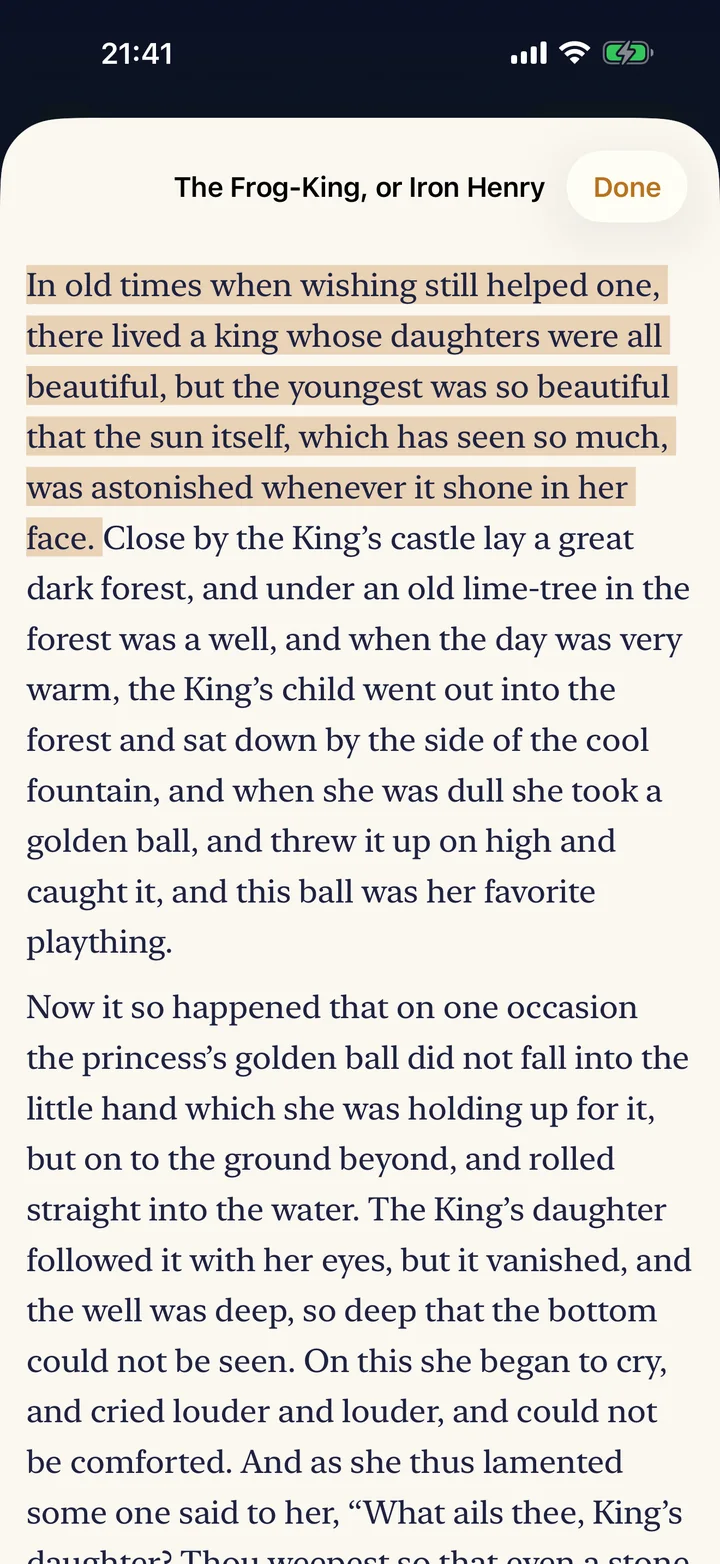
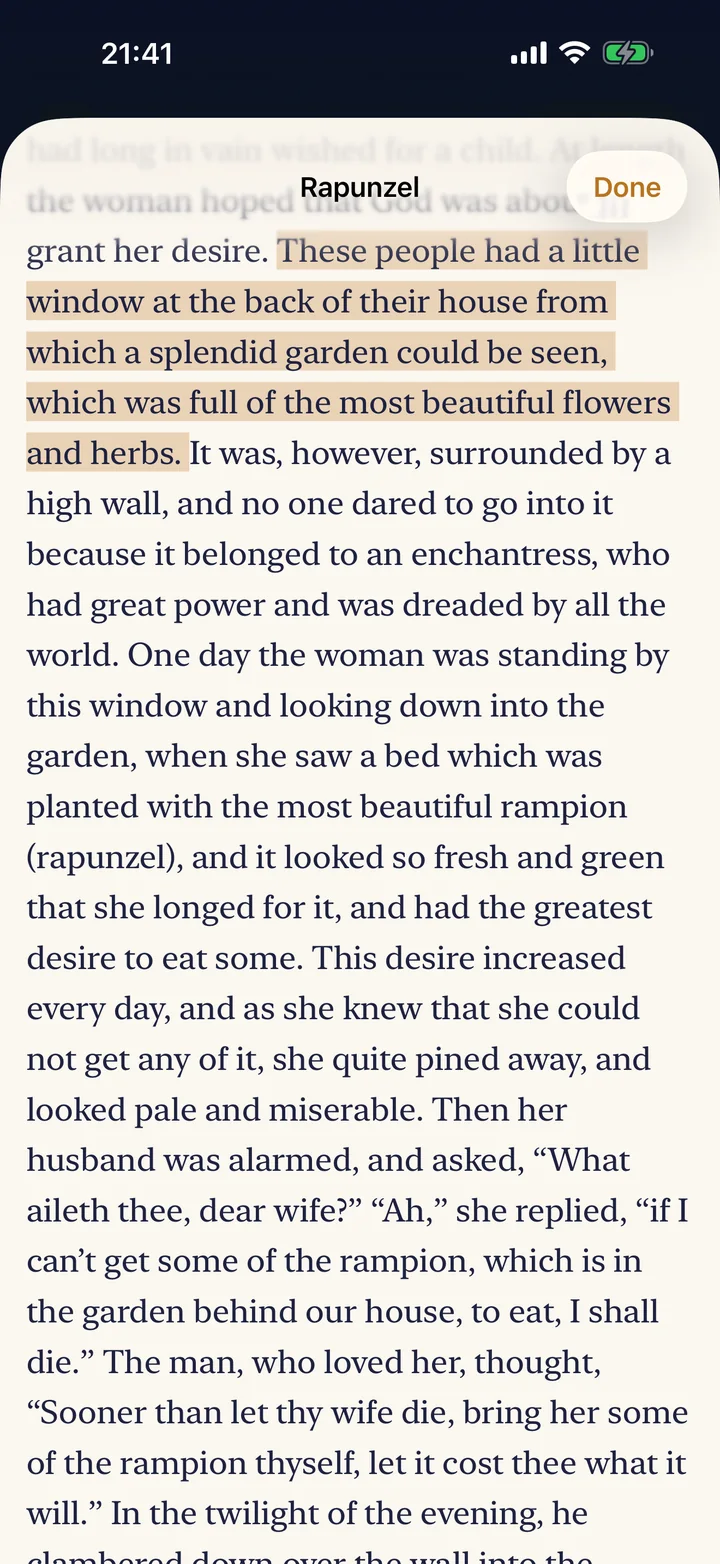
FairyWhisper page: Rapunzel on the story screen, player, read-along and the live demo

Changed region(s): [[0.0306, 0.0921, 0.9778, 1.0]]

diff --git a/fairywhisper/index.html b/fairywhisper/index.html
@@ -443,16 +443,16 @@
         <span lang="en">This page reads the way the app's free device voice does. Press play and watch the sentence being read light up.</span>
       </p>
       <div class="tales" role="group" aria-label="Masal seç" data-aria-en="Choose a story">
-        <button class="tale" type="button" lang="tr" data-tale="0" aria-pressed="true">Keloğlan ile Yün Bulutları</button>
+        <button class="tale" type="button" lang="tr" data-tale="0" aria-pressed="true">Rapunzel</button>
         <button class="tale" type="button" lang="tr" data-tale="1" aria-pressed="false">Bulut Yastık</button>
-        <button class="tale" type="button" lang="tr" data-tale="2" aria-pressed="false">Nasreddin Hoca ile Kuyudaki Ay</button>
+        <button class="tale" type="button" lang="tr" data-tale="2" aria-pressed="false">Keloğlan ile Yün Bulutları</button>
         <button class="tale" type="button" lang="en" data-tale="0" aria-pressed="true">The Tale of Peter Rabbit</button>
         <button class="tale" type="button" lang="en" data-tale="1" aria-pressed="false">How the Camel Got His Hump</button>
         <button class="tale" type="button" lang="en" data-tale="2" aria-pressed="false">Little Red-Cap</button>
       </div>
       <div class="read-sheet" data-ui>
-        <p class="title" id="read-title">Keloğlan ile Yün Bulutları</p>
-        <p class="read-text" id="read-text">Evvel zaman içinde, kalbur saman içinde, yüksek dağların eteğinde küçük bir köy varmış. Köyün evleri taştan, damları topraktanmış. Her evin önünde bir dut ağacı, her bahçede bir sıra fasulye varmış. Köyün tam ortasında da koca bir çınar dururmuş.</p>
+        <p class="title" id="read-title">Rapunzel</p>
+        <p class="read-text" id="read-text">Evvel zaman içinde, kalbur saman içinde, sık bir ormanın ortasında, gökyüzüne doğru uzanan taştan bir kule varmış. Kulenin ne kapısı, ne merdiveni varmış. Yalnızca en tepesinde, küçük bir penceresi varmış.</p>
         <div class="controls">
           <button class="play" type="button" id="play">
             <svg viewBox="0 0 14 14" aria-hidden="true"><path d="M2 1.2v11.6L12.4 7z"/></svg>
@@ -715,9 +715,9 @@
   // Real openings from the app's library.
   var TALES = {
     tr: [
-      { t: 'Keloğlan ile Yün Bulutları', s: ['Evvel zaman içinde, kalbur saman içinde, yüksek dağların eteğinde küçük bir köy varmış.', 'Köyün evleri taştan, damları topraktanmış.', 'Her evin önünde bir dut ağacı, her bahçede bir sıra fasulye varmış.', 'Köyün tam ortasında da koca bir çınar dururmuş.'] },
+      { t: 'Rapunzel', s: ['Evvel zaman içinde, kalbur saman içinde, sık bir ormanın ortasında, gökyüzüne doğru uzanan taştan bir kule varmış.', 'Kulenin ne kapısı, ne merdiveni varmış.', 'Yalnızca en tepesinde, küçük bir penceresi varmış.'] },
       { t: 'Bulut Yastık', s: ['Uzak bir dağın tepesinde, gökyüzüne en yakın yerde, Pamuk adında küçük bir bulut yaşarmış.', 'Pamuk, diğer bulutlar gibi yağmur yağdırmayı ya da gök gürültüsüyle gürlemeyi sevmezmiş.', 'Onun en sevdiği şey, akşamları aşağıdaki köye bakıp pencerelerdeki ışıkların teker teker sönmesini izlemekmiş.'] },
-      { t: 'Nasreddin Hoca ile Kuyudaki Ay', s: ["Evvel zaman içinde, Akşehir'de Nasreddin Hoca adında hem bilge hem şakacı bir adam yaşarmış.", 'Başında kocaman bir kavuk, sırtında bol bir cüppe olurmuş.', 'Bir eşeği, küçük bir bahçesi, bir de bahçenin köşesinde taş bilezikli, eski bir kuyusu varmış.'] }
+      { t: 'Keloğlan ile Yün Bulutları', s: ['Evvel zaman içinde, kalbur saman içinde, yüksek dağların eteğinde küçük bir köy varmış.', 'Köyün evleri taştan, damları topraktanmış.', 'Her evin önünde bir dut ağacı, her bahçede bir sıra fasulye varmış.', 'Köyün tam ortasında da koca bir çınar dururmuş.'] }
     ],
     en: [
       { t: 'The Tale of Peter Rabbit', s: ['Once upon a time there were four little Rabbits, and their names were Flopsy, Mopsy, Cotton-tail, and Peter.', 'They lived with their Mother in a sand-bank, underneath the root of a very big fir-tree.'] },
